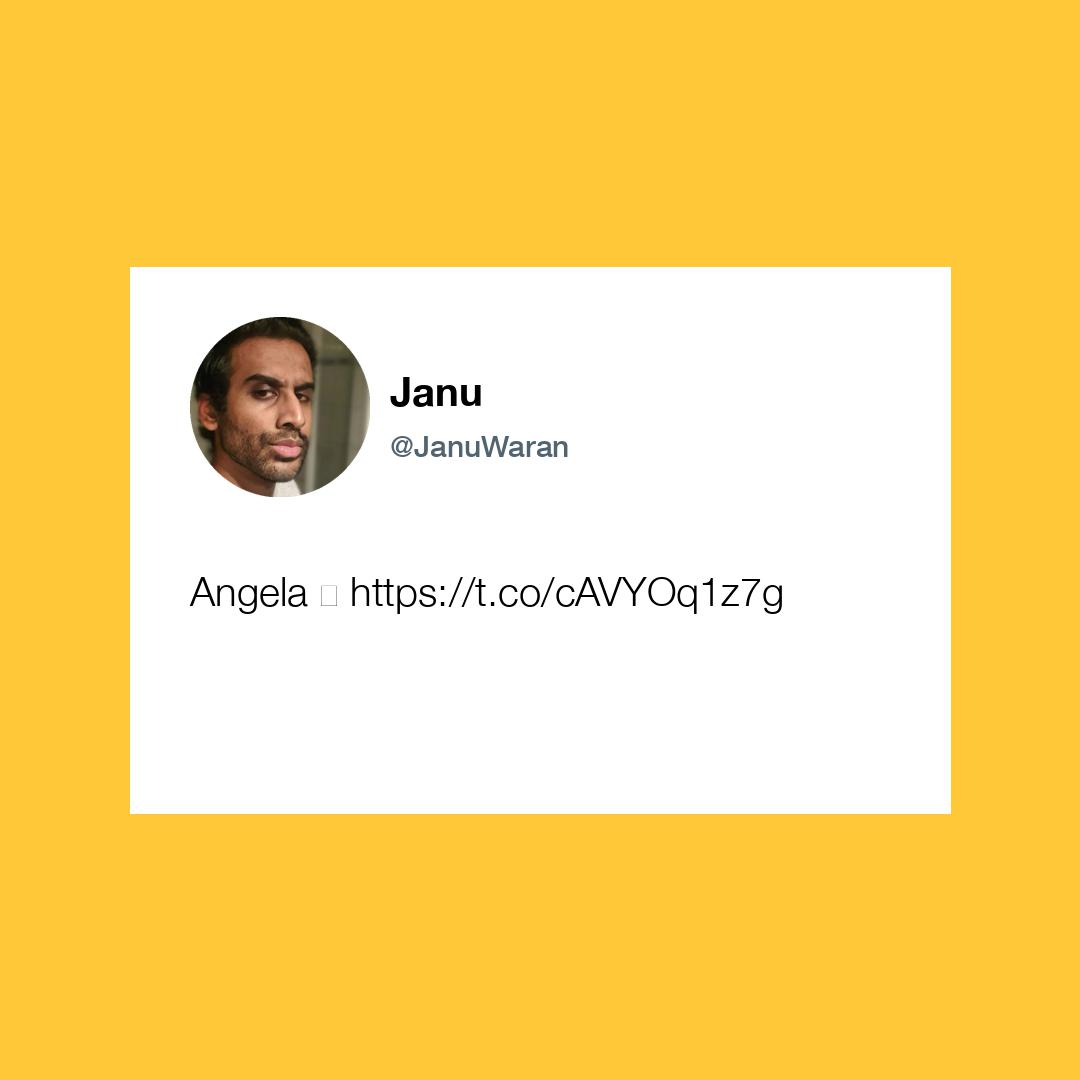
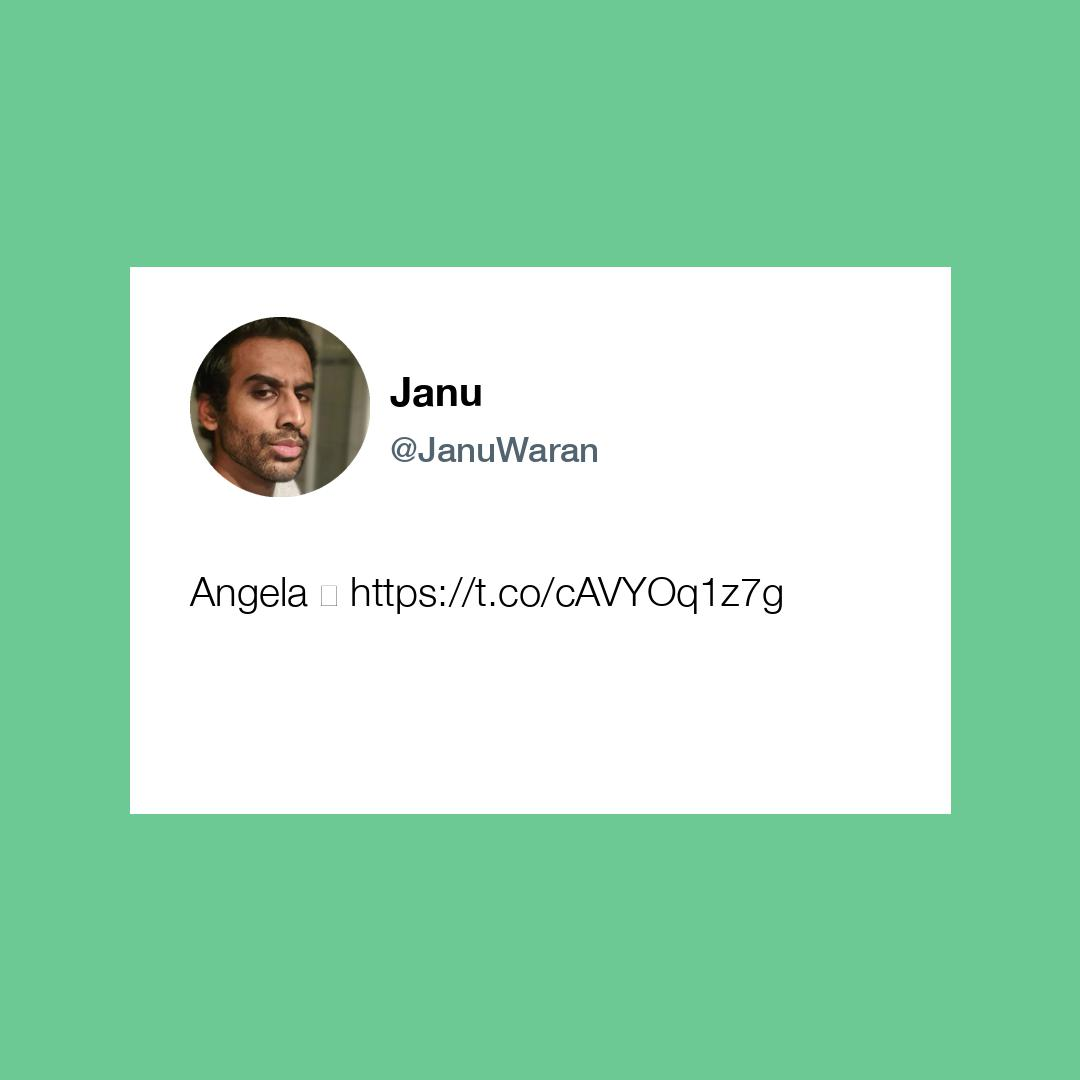
Bigger Handle

diff --git a/main.py b/main.py
@@ -171,7 +171,7 @@ def tweet_to_image(name, username, tweet, favs, retweets, profile_image, tweet_i
     draw = ImageDraw.Draw(img)
     tw_font = ImageFont.truetype("fonts/HelveticaNeueLight.ttf", 40)
     name_font = ImageFont.truetype("fonts/HelveticaNeueBold.ttf", 40)
-    username_font = ImageFont.truetype("fonts/HelveticaNeueMedium.ttf", 30)
+    username_font = ImageFont.truetype("fonts/HelveticaNeueMedium.ttf", 35)
     tweet_size = get_text_dimensions(tweet, tw_font)
     tweet_w = (width-900) // 2
     tweet_h = (height-tweet_size[1]) // 2 + 50
